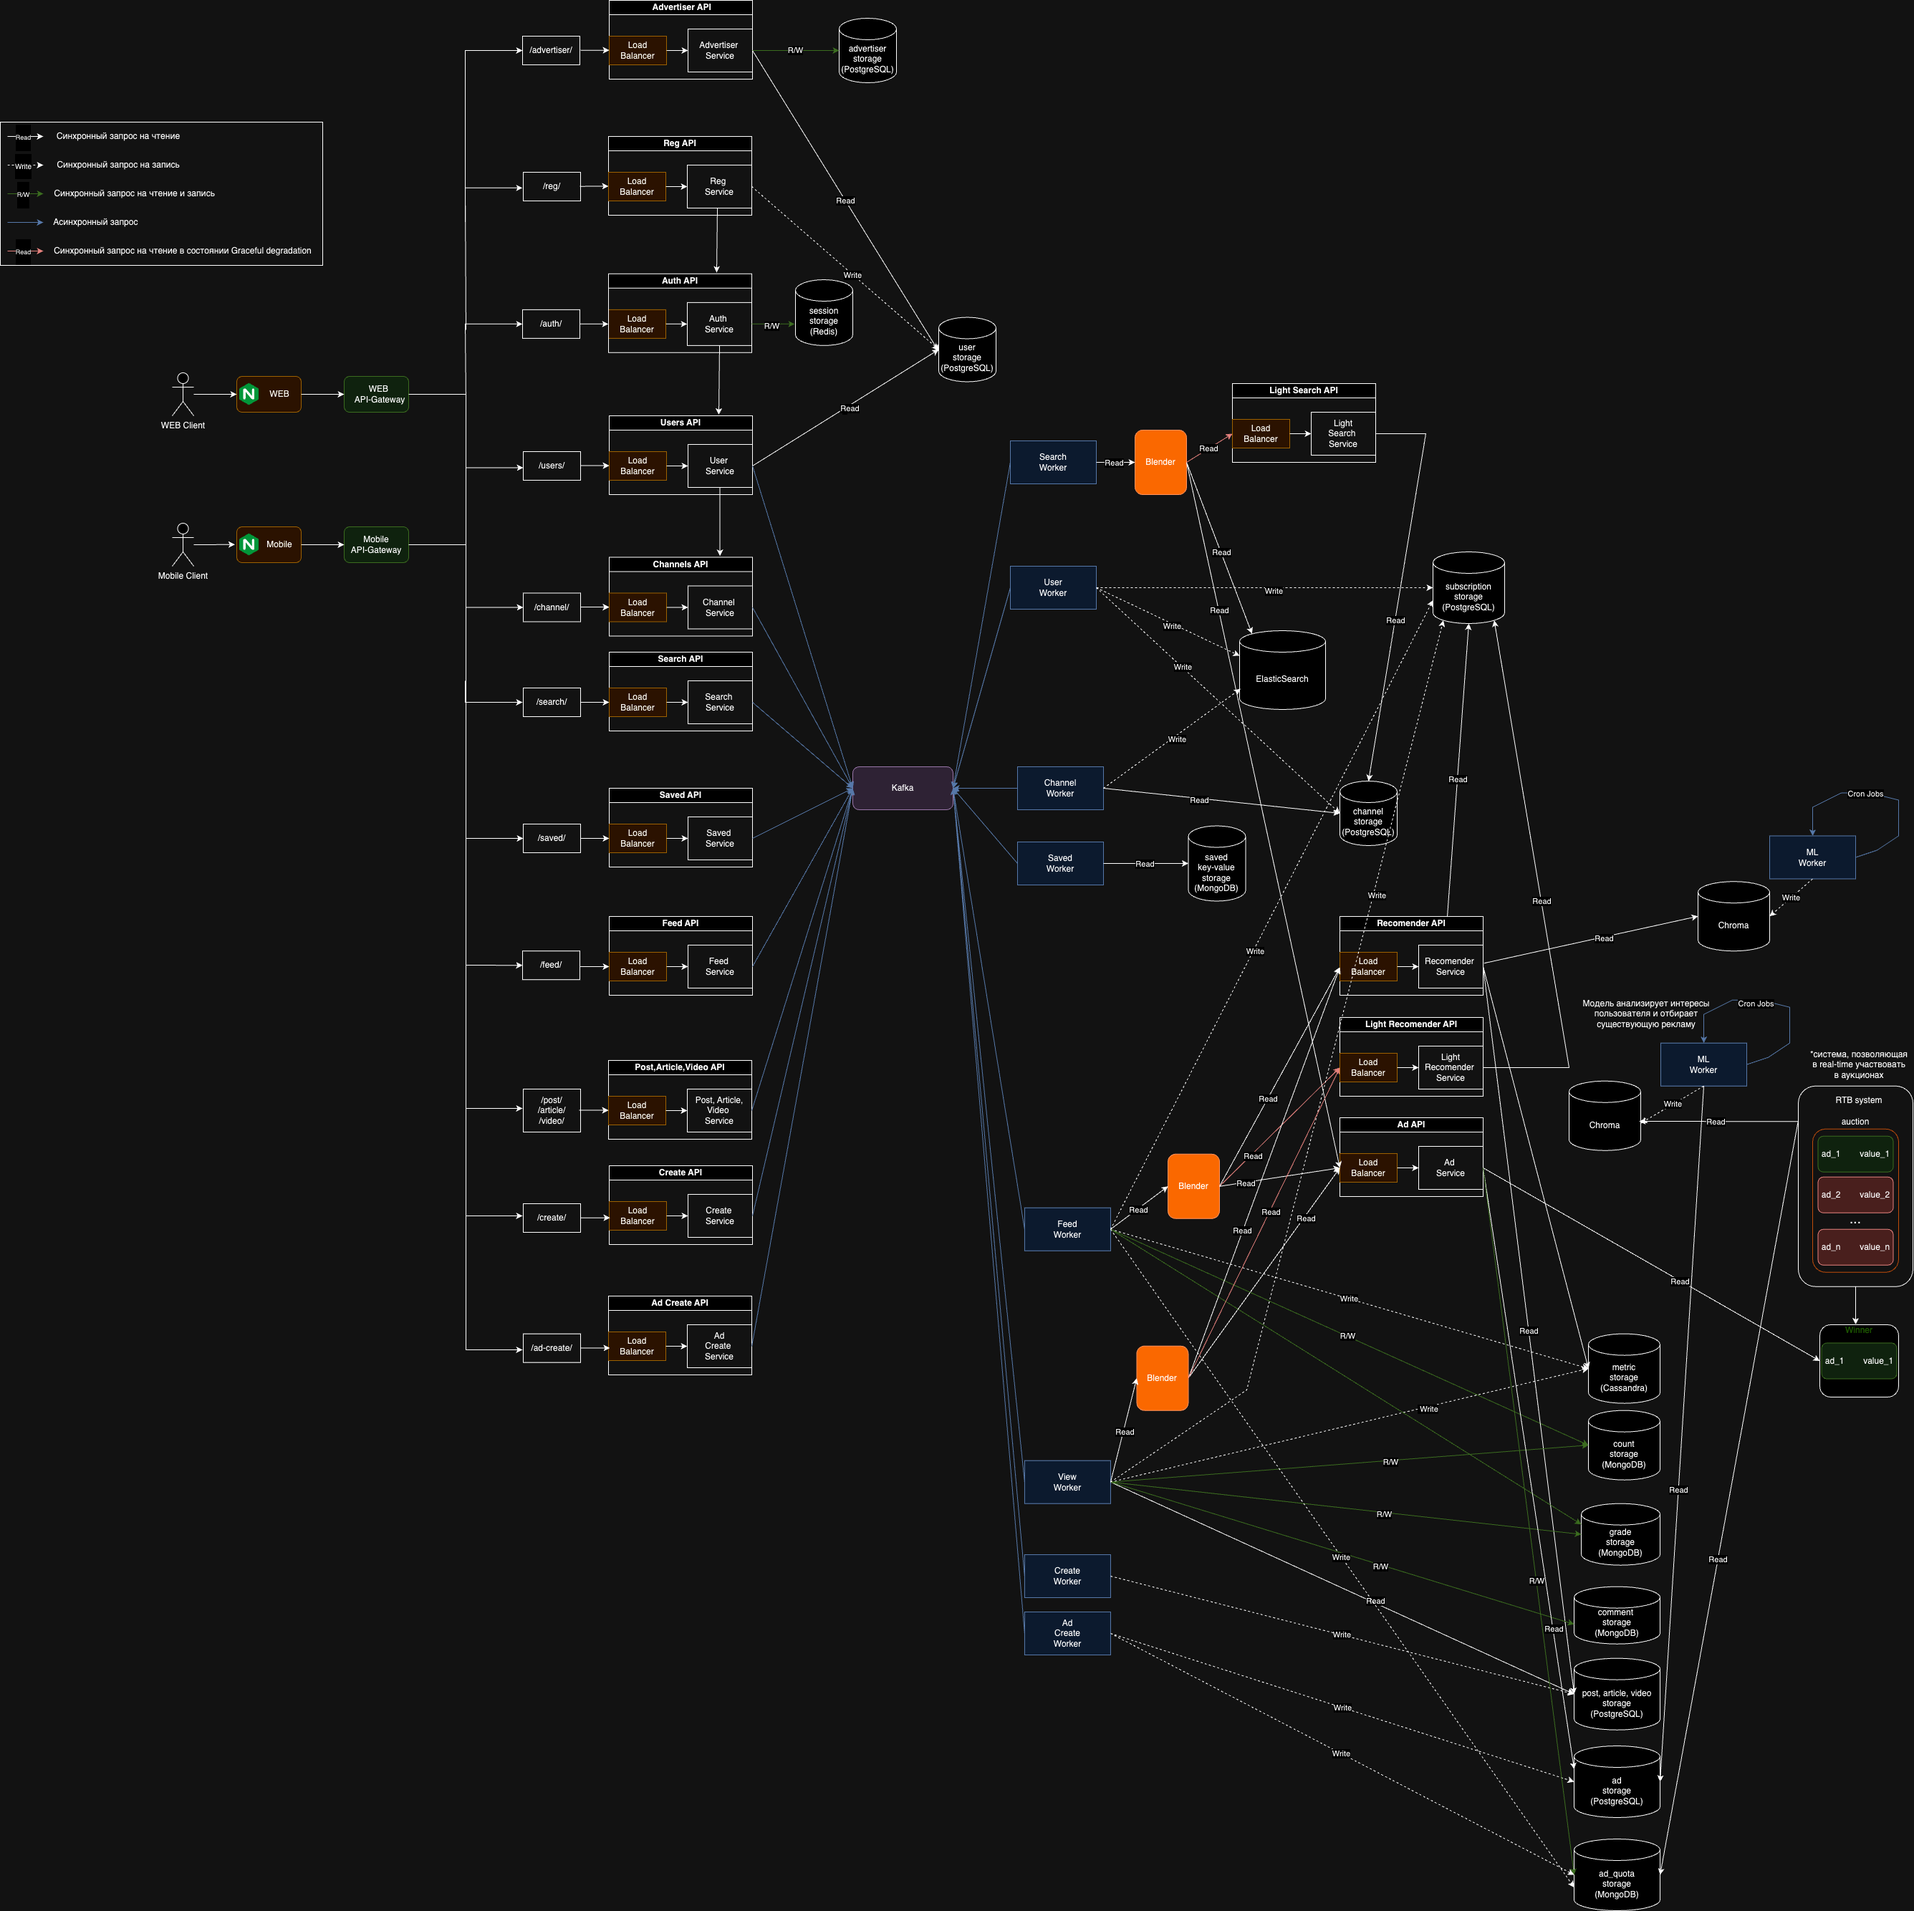
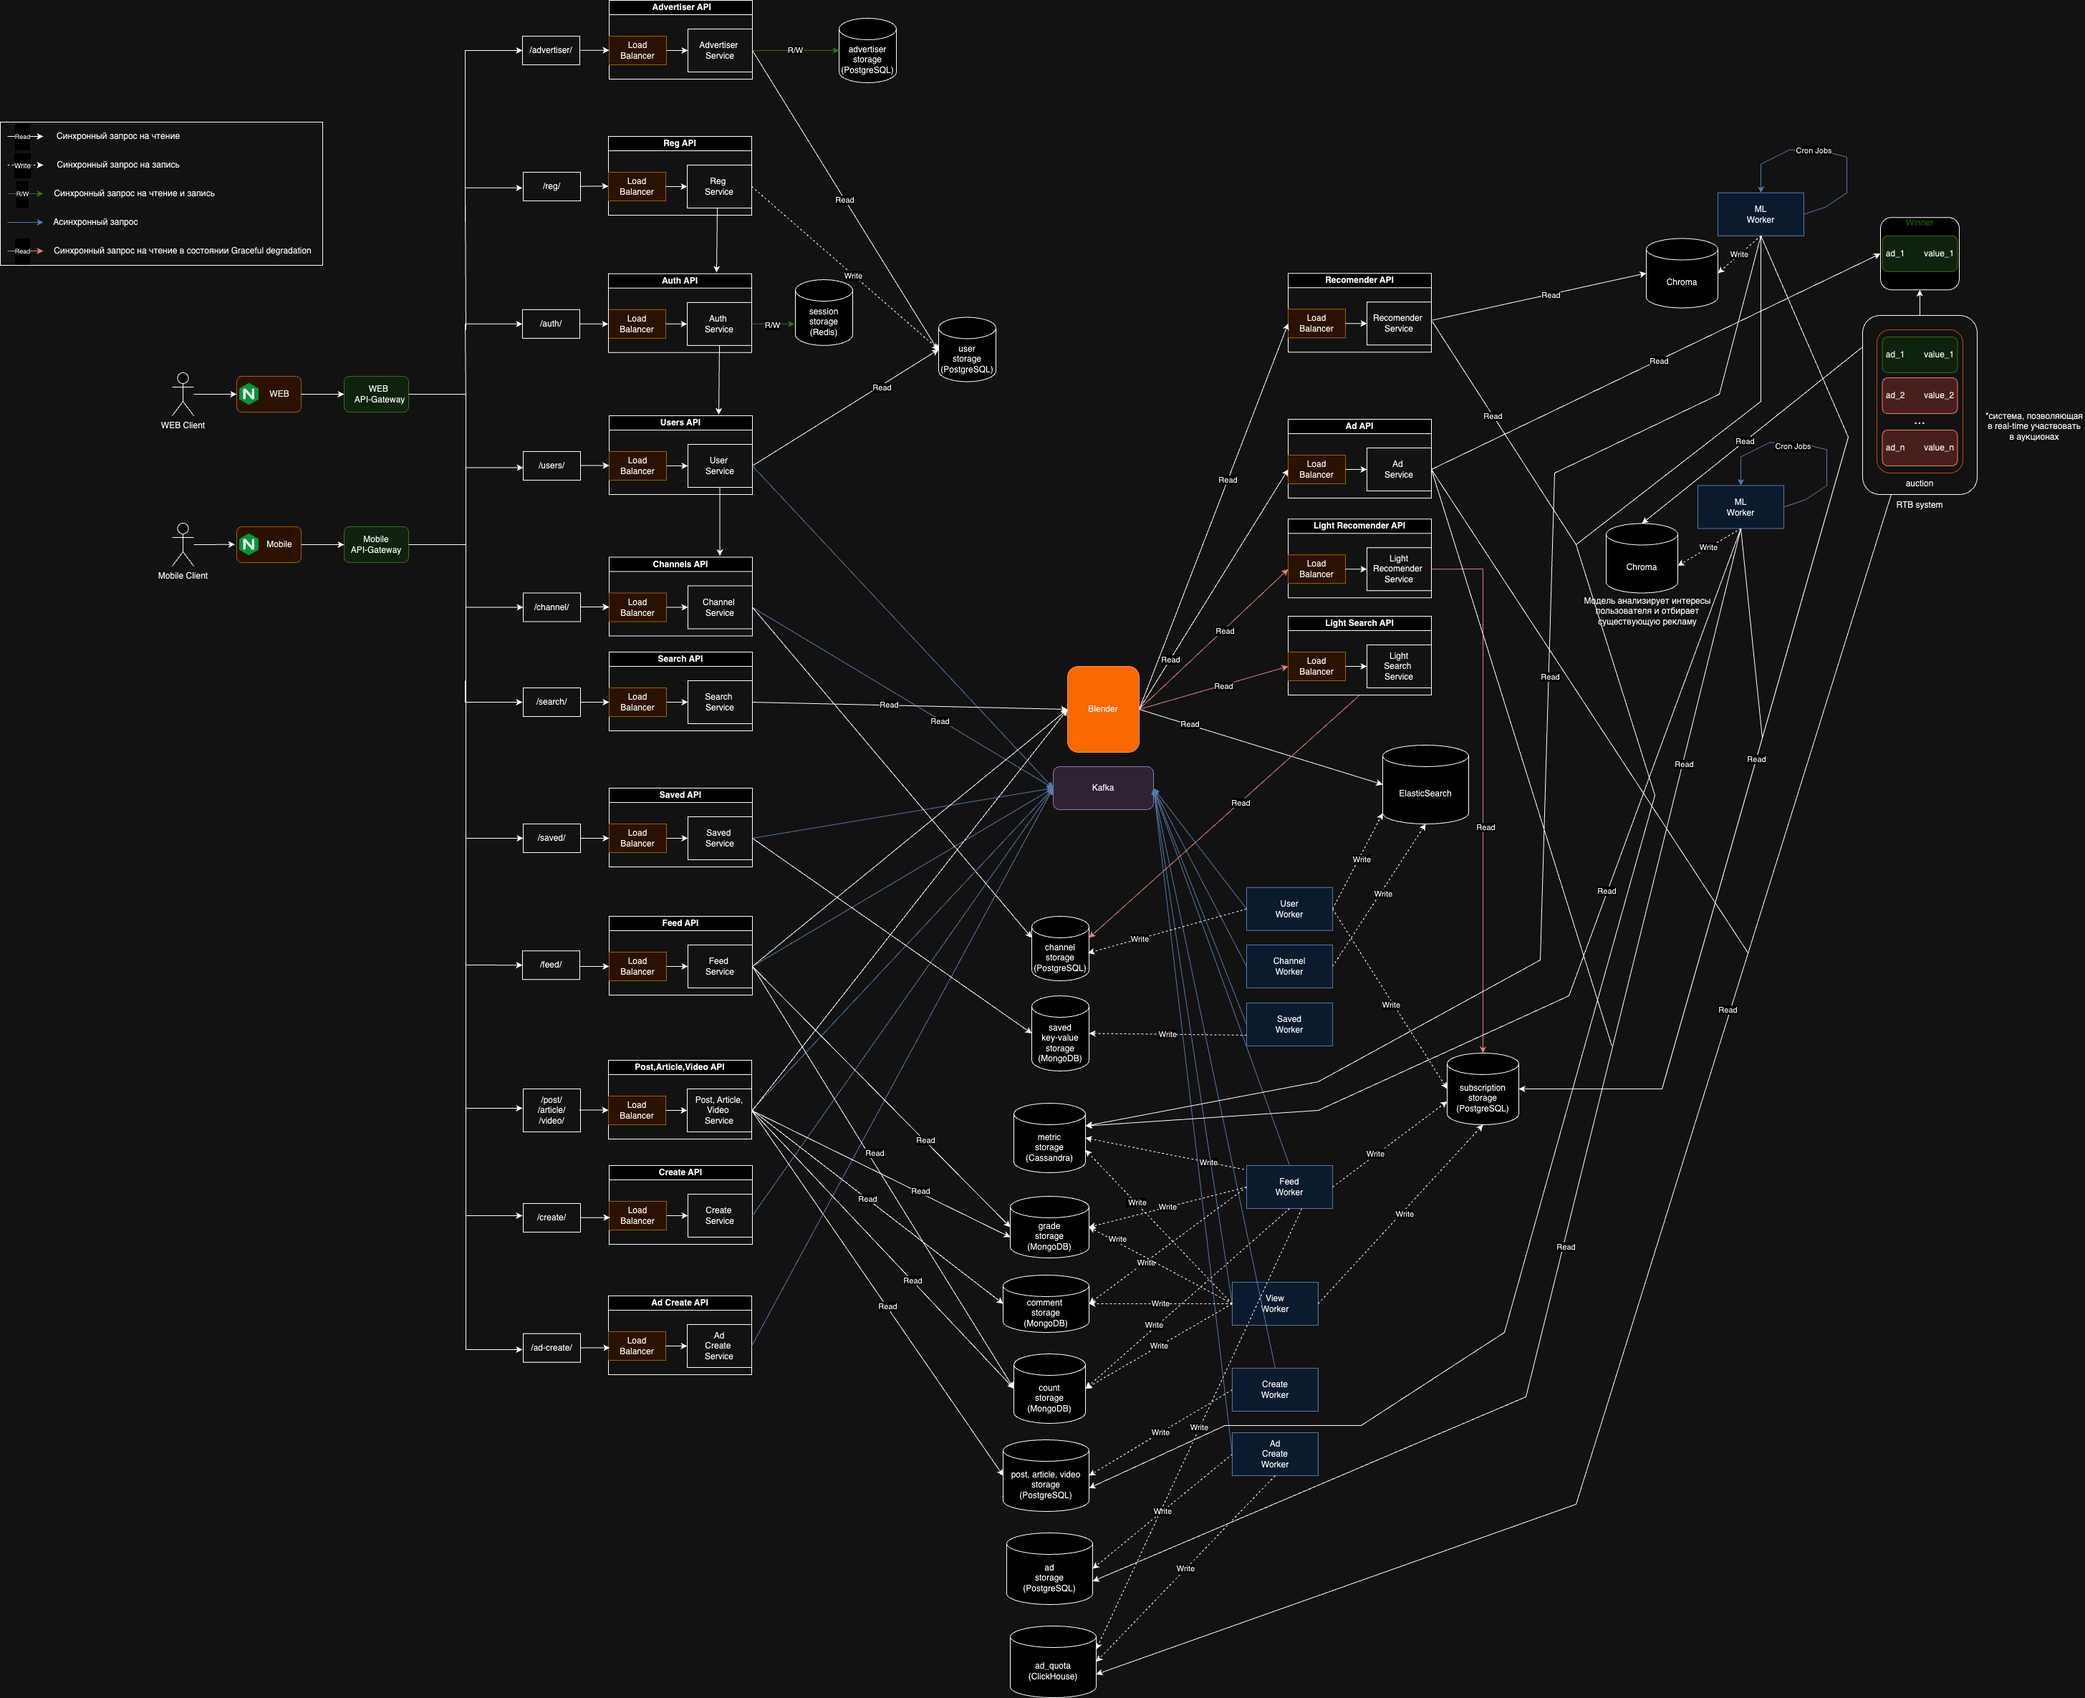
updates

diff --git a/README.md b/README.md
@@ -291,7 +291,8 @@ Nginx вместе с Kubernetes могут обеспечить высокую 
 |3|        saved, counting, subscription_count |MongoDB|Лучшее решение для хранения key-value, за счет возможности хранить данные в виде JSON-подобных документов.|
 |4|      search_history      |ElasticSearch|ElasticSearch специализируется на выполнении сложных поисковых запросов и анализе текстовых данных. Для хранения и обработки истории поиска, где важны текстовые запросы и их аналитика, ElasticSearch является лучшим выбором.|
 |5|post_finish_reading_metric, article_finish_reading_metric, post_action_metric, article_action_metric, video_action_metric, post_comment_metric, article_comment_metric, video_comment_metric, ad_action_metric|Cassandra|Обладает высокой масштабируемостью и может легко обрабатывать большие объемы данных на нескольких узлах.|
-|6|   post_grade, post_comment, article_grade, article_comment, video_grade, video_comment, ad_quota|MongoDB|MongoDB удобно использовать для хранения коллекций данных с переменной структурой, таких как оценки пользователей, где каждая запись может содержать разное количество идентификаторов объектов и оценок.|
+|6|   post_grade, post_comment, article_grade, article_comment, video_grade, video_comment|MongoDB|MongoDB удобно использовать для хранения коллекций данных с переменной структурой, таких как оценки пользователей, где каждая запись может содержать разное количество идентификаторов объектов и оценок.|
+|7|   ad_quota |ClickHouse|ClickHouse очень хорошо подходит для аналитики и real-time отчетов.|
 
 СУБД Chroma будем использовать для хранения эмбеддингов для рекомендаций и рекламы.
 
@@ -445,6 +446,7 @@ Processes* (вероятностная модель, которая исполь
 |API-Gateway  |Маршрутизация, авторизация, логирование, мониторинг|Выполняет роль центральной точки входа для внешних запросов к микросервисной архитектуре, обеспечивая безопасность, мониторинг и управление трафиком.|
 |Kubernetes   |Масштабирование и оркестрация сервисов|Kubernetes автоматически масштабирует и управляет контейнерами с приложениями в зависимости от нагрузки, обеспечивая высокую доступность и эффективное использование ресурсов.|
 |ElasticSearch|Поиск|Мощный поисковый движок, обеспечивает быстрый и гибкий поиск по структурированным и неструктурированным данным, что важно для функционала поиска в Дзене.|
+|ClickHouse|СУБД|СУБД, позволяющая выполнять аналитические запросы в режиме реального времени на структурированных больших данных.|
 |GitHub       |CI/CD, Система контроля версий, монорепозиторий, командная разработка|Удобное сопровождение всех циклов разработки и обеспечения качества проекта.|
 
 ## Часть 9. Схема проекта <a name="9"></a>
@@ -562,6 +564,7 @@ Processes* (вероятностная модель, которая исполь
 |Cassandra|own|16 core CPU; 4x8 GB RAM 2400 MHz DDR4 (CyberServe Xeon SP1-P04S G4)|3|€6 019.68|€120|
 |PostgreSQL|own|16 core CPU; 4x8 GB RAM 2400 MHz DDR4 (CyberServe Xeon SP1-P04S G4)|3|€6 019.68|€120|
 |MongoDB|own|16 core CPU; 4x8 GB RAM 2400 MHz DDR4 (CyberServe Xeon SP1-P04S G4)|3|€6 019.68|€120|
+|ClickHouse|own|16 core CPU; 4x8 GB RAM 2400 MHz DDR4 (CyberServe Xeon SP1-P04S G4)|3|€6 019.68|€120|
 |Redis|own|16 core CPU; 4x8 GB RAM 2400 MHz DDR4 (CyberServe Xeon SP1-P04S G4)|3|€6 019.68|€120|
 |Nginx|own|16 core CPU; 4x8 GB RAM 2400 MHz DDR4 (CyberServe Xeon SP1-P04S G4)|3|€6 019.68|€120|
 
@@ -569,17 +572,17 @@ Processes* (вероятностная модель, которая исполь
 
 Если будем арендовать оборудование, то получим следующую сумму:
 
-`3*30*60 + 3*30*60 + 3*120*60 + 3*120*60 + 3*120*60 + 3*120*60 + 3*40*60 + 9*120*60 + 6*120*60 + 3*40*60 + 3*120*60 + 3*120*60 + 3*120*60 + 3*120*60 + 3*120*60 + 3*120*60 = €349 200`
+`3*30*60 + 3*30*60 + 3*120*60 + 3*120*60 + 3*120*60 + 3*120*60 + 3*40*60 + 9*120*60 + 6*120*60 + 3*40*60 + 3*120*60 + 3*120*60 + 3*120*60 + 3*120*60 + 3*120*60 + 3*120*60 + 3*120*60 = €370 800`
 
 ### Итоги
 
 Рассчитаем цену всего оборудования, если покупать его:
 
-`6 019.68 * 42 + 1 710.45 * 12 + 1 677.53 * 3 = €296 444`
+`6 019.68 * 45 + 1 710.45 * 12 + 1 677.53 * 3 = €314 503`
 
 Нужно учитывать, что для поддержания работоспособности оборудования необходимо помещение и специальные условия внутри помещения, также будет необходим персонал, который будет за всем этим следить. Предположим, что все это будет обходиться нам в `€4 000` в месяц, тогда если рассчитывать амортизацию на 5 лет, выйдет `€240 000` плюсом к тому, что мы рассчитали выше. 
 
-Таким образом, получаем следующие цифры: если закупать оборудование на расчетом на 5 лет, то вместе с поддержкой оно обойдется нам в `€536 444`, а если арендовать то же самое оборудование, то выйдет `€349 200`. Получается, если рассматривать период использования - 5 лет, то выгоднее будет арендовать оборудование, нежели покупать собственное.
+Таким образом, получаем следующие цифры: если закупать оборудование на расчетом на 5 лет, то вместе с поддержкой оно обойдется нам в `€554 503`, а если арендовать то же самое оборудование, то выйдет `€370 800`. Получается, если рассматривать период использования - 5 лет, то выгоднее будет арендовать оборудование, нежели покупать собственное.
 
 Но если рассмотреть более долгосрочную амортизацию, то ситуация будет следующая:
 
@@ -587,11 +590,11 @@ Processes* (вероятностная модель, которая исполь
 
 Покупка и содержание своего оборудования:
 
-`€536 444 + €240 000 = €776 444`
+`€554 503 + €240 000 = €794 503`
 
 Аренда:
 
-`€349 200 * 2 = €698 400`
+`€370 800 * 2 = €741 600`
 
 Видим, что арендовать оборудование все еще будет выгоднее, нежели покупать свое. И такая разница будет наблюдаться и на более длительных амортизациях.
 
